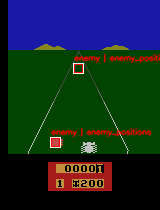
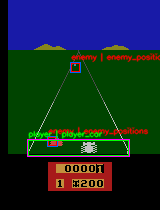
debug: update quirks up until (fishingderby)+ manual workaround missing tracking for (enduro)

Changed region(s): [[0.1562, 0.6, 0.9375, 0.7714], [0.4375, 0.2286, 1.0, 0.3714]]

diff --git a/praktikum_obj_detection_team/data_extractor.py b/praktikum_obj_detection_team/data_extractor.py
@@ -13,7 +13,7 @@ DEBUG_MODE     = True
 DEBUG_LABELS   = True #false = hide text
 
 RUN_ALL_GAMES      = False
-SINGLE_GAME_TARGET = "breakout"
+SINGLE_GAME_TARGET = "fishingderby"
 
 # Atari screen dimensions
 SCREEN_W = 160.0
@@ -194,6 +194,31 @@ def extract_flat_per_row(obj_data, entry):
 
     return boxes
 
+def apply_custom_game_patches(game_name, pixels, yolo_lines, frame_bgr):
+    """
+    Handles hardcoded computer vision workarounds for games where
+    JAXAtari has missing or incomplete RAM mappings.
+    """
+    if game_name == "enduro":
+        y_min, y_max = 140, 155
+        car_strip = pixels[y_min:y_max, :, :]
+        brightness = np.sum(car_strip, axis=2)
+        y_coords, x_coords = np.where(brightness > 400)
+
+        if len(x_coords) > 0:
+            car_x = int(np.min(x_coords))
+            car_w = int(np.max(x_coords) - car_x)
+            car_h = y_max - y_min
+
+            # Map directly to class 0 (Player)
+            yolo_lines.append(to_yolo(0, car_x, y_min, car_w, car_h))
+
+            if DEBUG_MODE:
+                draw_debug_box(frame_bgr, car_x, y_min, car_w, car_h,
+                               0, "entity", "player_car")
+
+        # TODO: any future games with same issue
+
 def to_yolo(class_id, x, y, w, h):
     xc = min((x + w / 2.0) / SCREEN_W, 1.0)
     yc = min((y + h / 2.0) / SCREEN_H, 1.0)
@@ -324,6 +349,8 @@ for game_name in games_to_run:
                         if DEBUG_MODE:
                             draw_debug_box(frame_bgr, x, y, w, h,
                                            class_id, obj_type, obj_name)
+
+                apply_custom_game_patches(game_name, pixels, yolo_lines, frame_bgr)
 
                 if yolo_lines:
                     base = f"{output_folder}/frame_{saved_count:05d}"

diff --git a/praktikum_obj_detection_team/matrix_scanner.py b/praktikum_obj_detection_team/matrix_scanner.py
@@ -4,7 +4,7 @@ from jaxatari.wrappers import PixelAndObjectObsWrapper, AtariWrapper
 
 #  Start the game up
 print("Booting Matrix Scanner...")
-base_env = jaxatari.make("breakout")  # game to be scanned
+base_env = jaxatari.make("enduro")  # game to be scanned
 atari_env = AtariWrapper(base_env)
 env = PixelAndObjectObsWrapper(atari_env)
 
